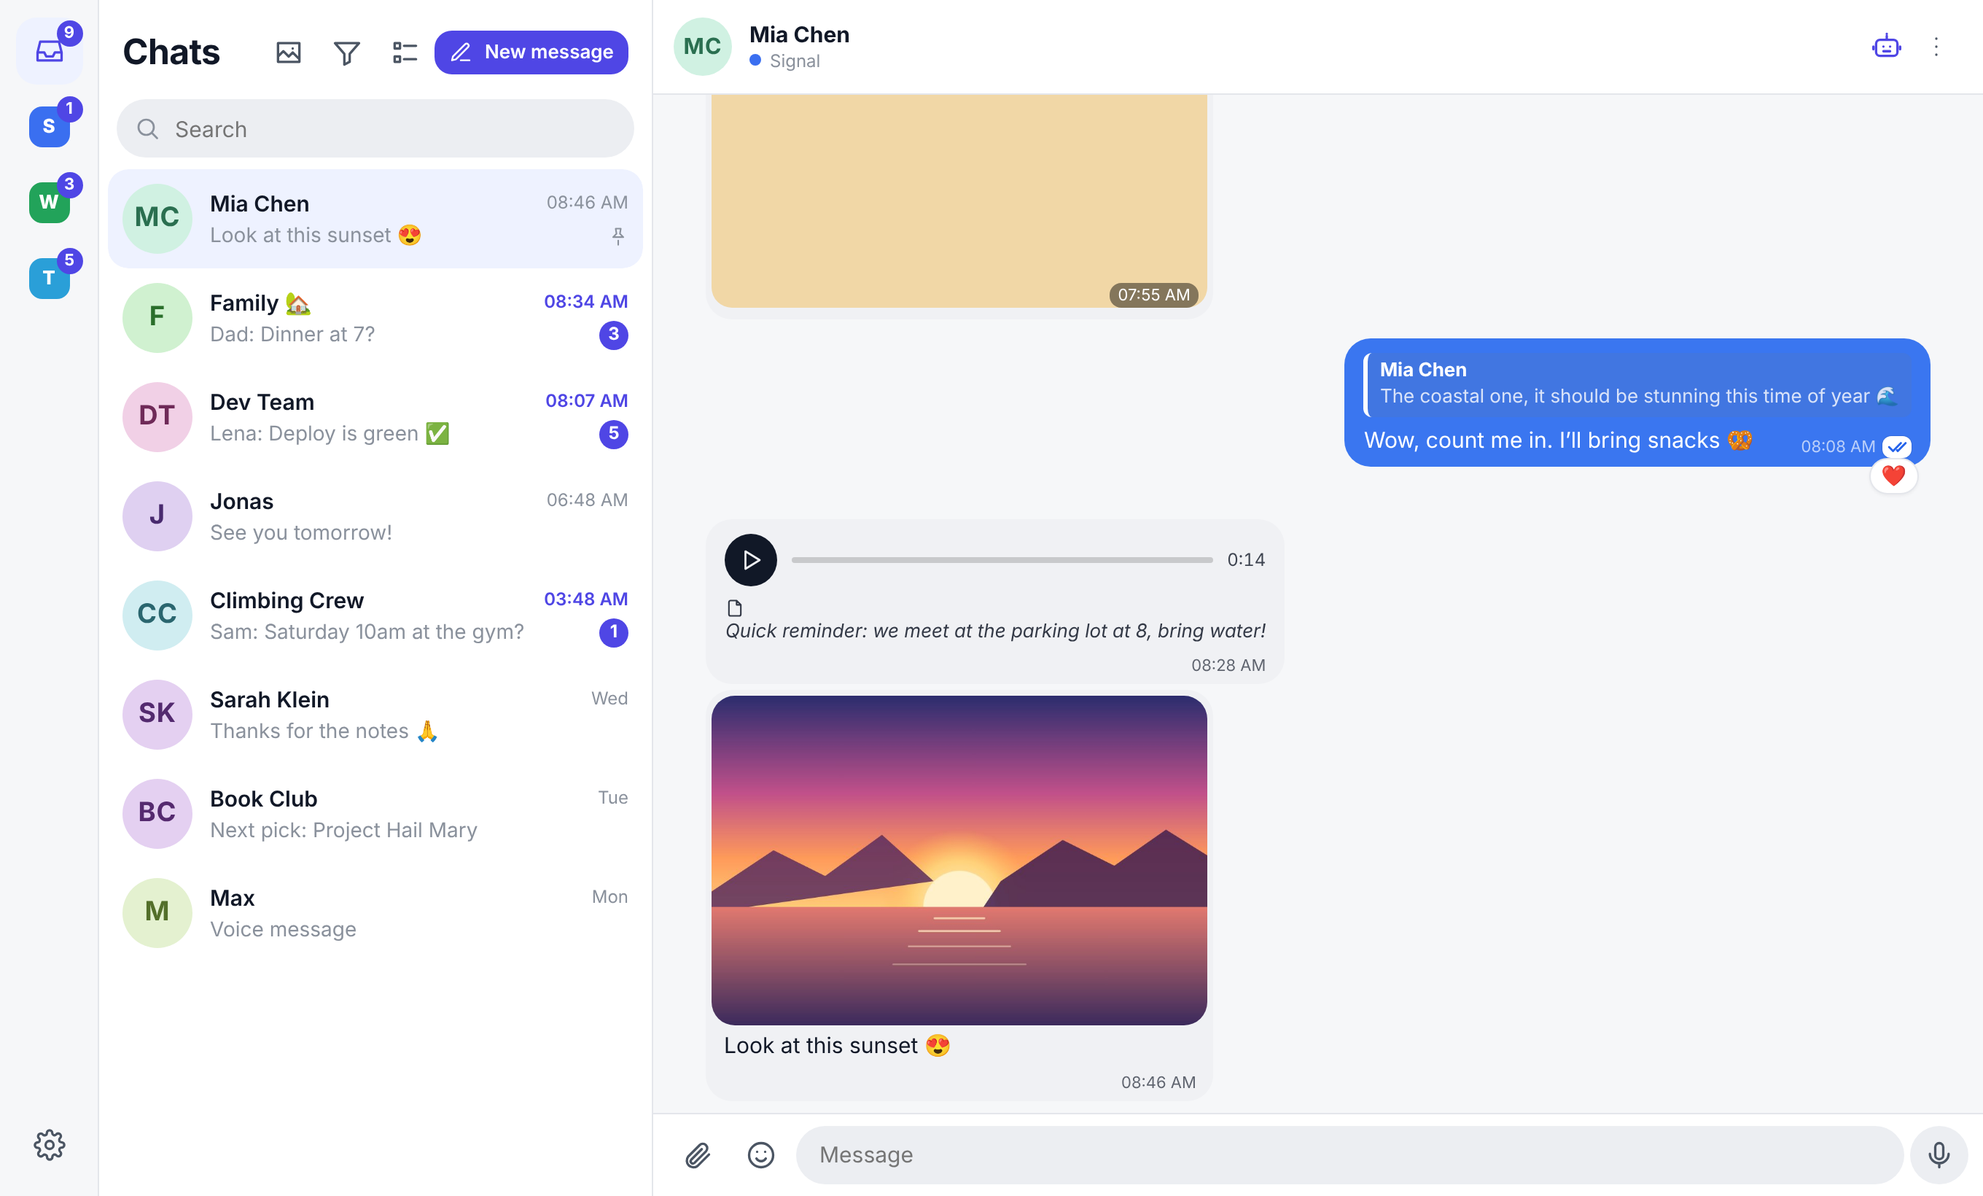
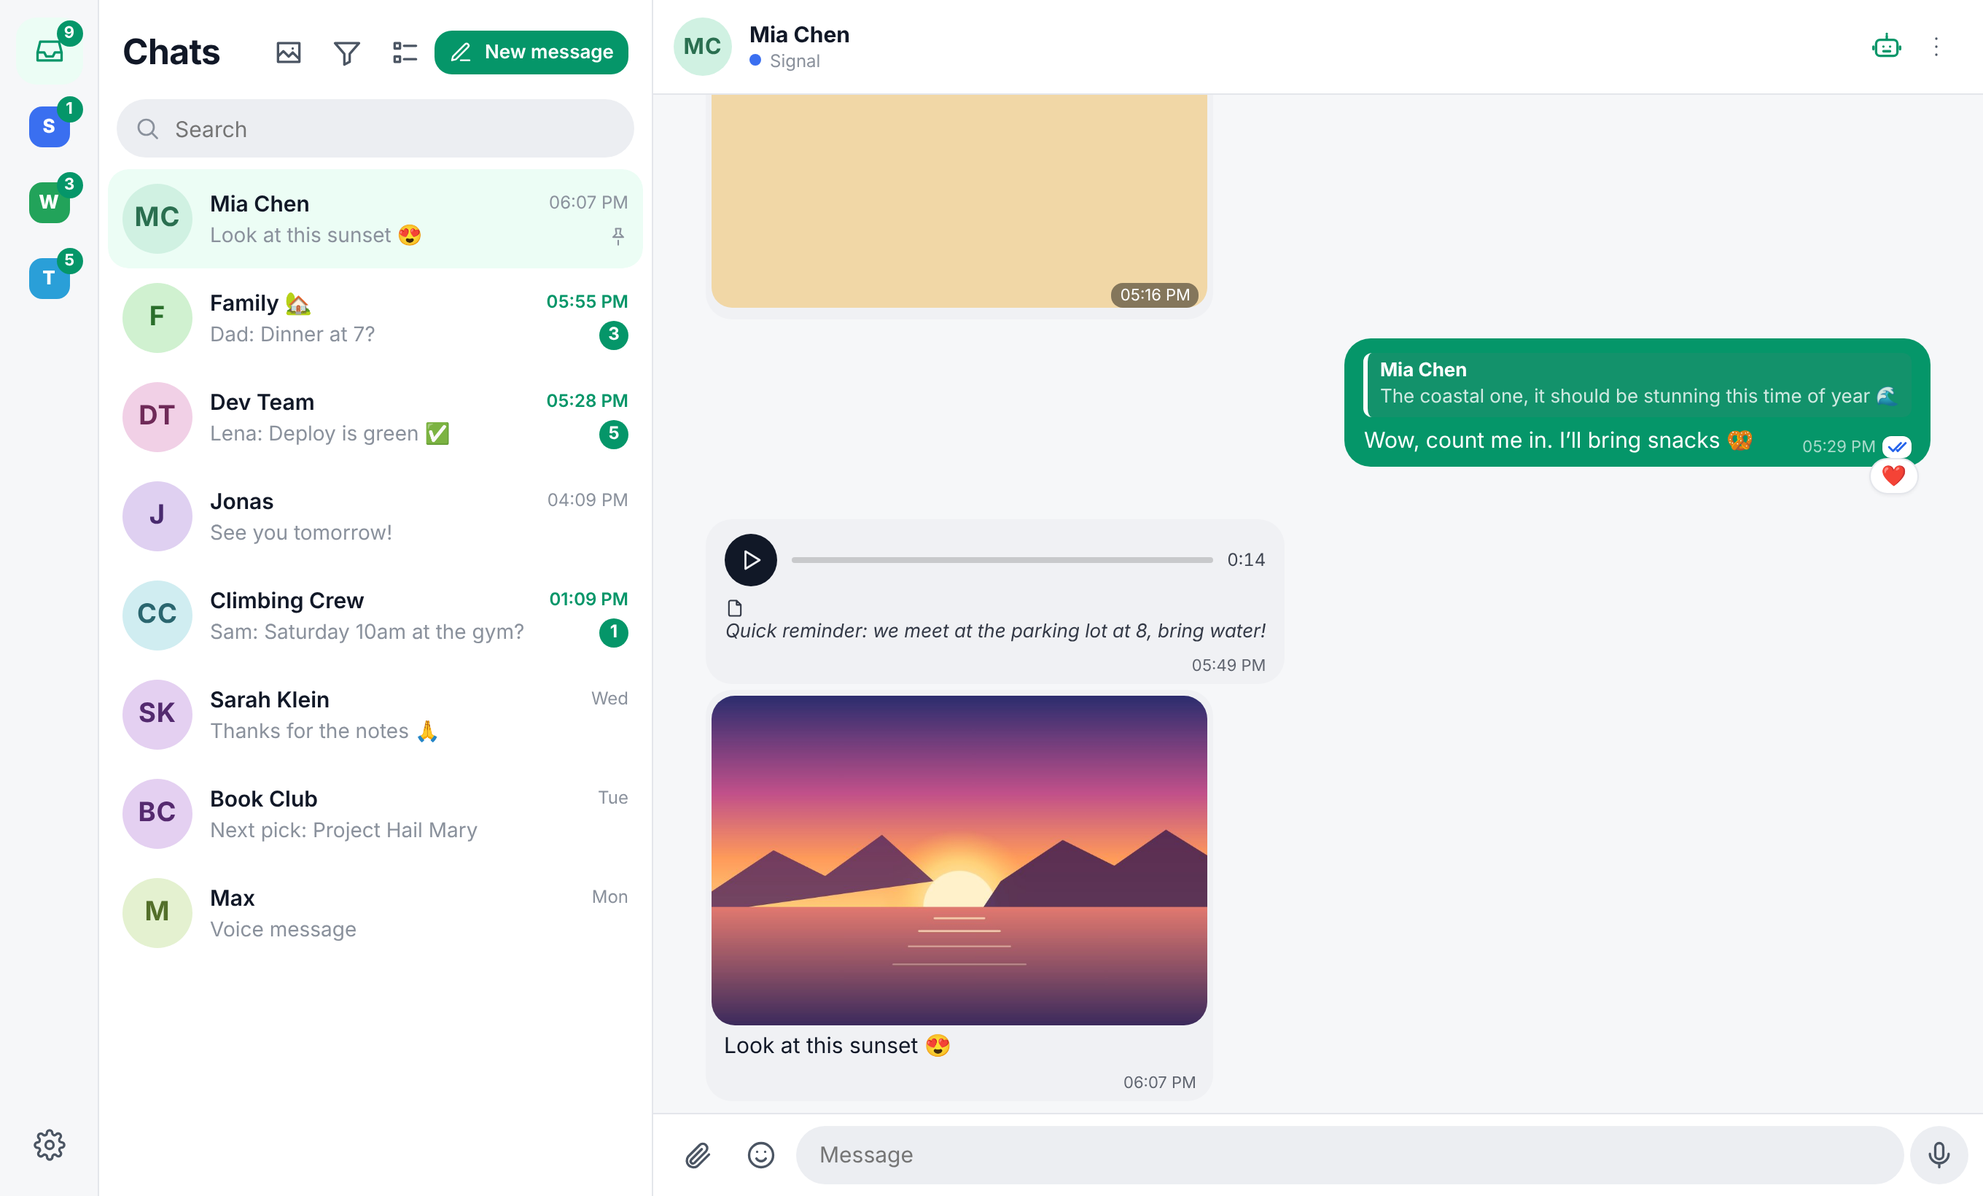
Smaragd als neue App-Farbe, alle Farben in Darstellung wählbar
Logo und App-Icons in Smaragd. Einstellungen → Darstellung → App-Farbe
(Smaragd, Petrol, Ozeanblau, Indigo, Violett, Koralle, Orange, Graphit),
gilt pro Gerät. Eigene Sprechblasen folgen standardmäßig der App-Farbe,
„Farbe je Messenger“ bleibt als Option; bestehende Einstellungen werden
einmalig auf den neuen Standard umgestellt. README-Screenshots neu.

Claude-Session: https://claude.ai/code/session_011JkhW8hJt65X9TTfH212ci

diff --git a/web/src/components/BubbleSettings.tsx b/web/src/components/BubbleSettings.tsx
@@ -3,32 +3,35 @@ import type { Network } from '../api';
 import { NETWORKS } from '../util';
 import { sendAnimEnabled, setSendAnim } from '../sendAnim';
 import {
-  BUBBLE_DEFAULTS, BUBBLE_PALETTE, CHAT_BACKGROUNDS, chatBgCss, customBgImage, ink, loadBubbles, loadChatBg, saveBubbles, saveChatBg, setCustomBg,
+  ACCENTS, BUBBLE_DEFAULTS, BUBBLE_PALETTE, bubbleHex, loadAccent, saveAccent, CHAT_BACKGROUNDS, chatBgCss, customBgImage, ink, loadBubbles, loadChatBg, saveBubbles, saveChatBg, setCustomBg,
   type BubbleSettings,
 } from '../bubbles';
 import { Icon } from './Icon';
 import { T } from '../i18n';
 
 /** Eine Farbzeile: Tippen klappt die Auswahl auf (Palette + eigene Farbe) */
-function ColorRow({ label, color, open, onToggle, onPick }: { label: string; color: string; open: boolean; onToggle: () => void; onPick: (c: string) => void }) {
-  const custom = !BUBBLE_PALETTE.includes(color);
+function ColorRow({ label, color, open, onToggle, onPick, auto }: { label: string; color: string; open: boolean; onToggle: () => void; onPick: (c: string) => void; auto?: boolean }) {
+  const isAuto = color === 'accent';
+  const custom = !isAuto && !BUBBLE_PALETTE.includes(color);
+  const hex = bubbleHex(color);
   return (
     <div className={`color-row${open ? ' open' : ''}`}>
       <button className="ios-row" onClick={onToggle} aria-expanded={open}>
         <span className="ios-row-main">
-          <span className="ios-row-text"><span className="ios-title">{label}</span></span>
-          <span className="color-dot" style={{ background: color }} />
+          <span className="ios-row-text"><span className="ios-title">{label}</span>{isAuto && <small>{T('Wie die App-Farbe')}</small>}</span>
+          <span className="color-dot" style={{ background: hex }} />
           <Icon name="chevron" size={18} />
         </span>
       </button>
       {open && (
         <div className="swatches pick">
+          {auto && <button className={`swatch auto ${isAuto ? 'on' : ''}`} style={{ background: 'var(--brand)' }} aria-label={T('Wie die App-Farbe')} title={T('Wie die App-Farbe')} onClick={() => onPick('accent')}><Icon name="sparkle" size={14} /></button>}
           {BUBBLE_PALETTE.map((c) => (
             <button key={c} className={`swatch ${color === c ? 'on' : ''}`} style={{ background: c }} aria-label={c} onClick={() => onPick(c)} />
           ))}
           <label className={`swatch custom ${custom ? 'on' : ''}`} style={custom ? { background: color } : undefined} title={T('Eigene Farbe')}>
             {!custom && <Icon name="plus" size={14} />}
-            <input type="color" value={color} onChange={(e) => onPick(e.target.value)} />
+            <input type="color" value={hex} onChange={(e) => onPick(e.target.value)} />
           </label>
         </div>
       )}
@@ -49,13 +52,26 @@ export function BubbleSection({ nets }: { nets: Network[] }) {
   const list: Network[] = nets.length ? nets : ['signal', 'whatsapp', 'telegram'];
   const pickBg = (id: string) => { setBg(id); saveChatBg(id); };
   const previewNet = list[0];
-  const outColor = b.mode === 'network' ? b.colors[previewNet] : b.single;
+  const [accent, setAccent] = useState(loadAccent);
+  const outColor = b.mode === 'network' ? b.colors[previewNet] : bubbleHex(b.single);
 
   return (<>
     <div className="look-preview" style={{ background: chatBgCss(bg) || undefined }}>
       <span className="day"><span>{T('Heute')}</span></span>
       <span className="pv in">{T('Hast du heute Abend Zeit? 🍕')}</span>
       <span className="pv out" style={{ background: outColor, color: ink(outColor) }}>{T('Klar, um acht bei dir?')}</span>
+    </div>
+
+    <p className="ios-caption">{T('App-Farbe')}</p>
+    <div className="ios-card pad">
+      <div className="accent-grid">
+        {ACCENTS.map((a) => (
+          <button key={a.id} className={`accent-tile${accent.id === a.id ? ' on' : ''}`} onClick={() => { saveAccent(a.id); setAccent(a); }} aria-pressed={accent.id === a.id}>
+            <span style={{ background: `linear-gradient(135deg, ${a.dark}, ${a.brand})` }}>{accent.id === a.id && <Icon name="check" size={16} />}</span><small>{a.name}</small>
+          </button>
+        ))}
+      </div>
+      <small className="muted">{T('Für Knöpfe, Markierungen und deine Sprechblasen. Gilt für dieses Gerät.')}</small>
     </div>
 
     <p className="ios-caption">{T('Meine Sprechblasen')}</p>
@@ -68,7 +84,7 @@ export function BubbleSection({ nets }: { nets: Network[] }) {
       </label>
       {b.mode === 'network'
         ? list.map((n) => <ColorRow key={n} label={NETWORKS[n].name} color={b.colors[n]} open={open === n} onToggle={() => setOpen(open === n ? null : n)} onPick={(c) => set({ ...b, colors: { ...b.colors, [n]: c } })} />)
-        : <ColorRow label={T('Alle Chats')} color={b.single} open={open === 'single'} onToggle={() => setOpen(open === 'single' ? null : 'single')} onPick={(c) => set({ ...b, single: c })} />}
+        : <ColorRow auto label={T('Alle Chats')} color={b.single} open={open === 'single'} onToggle={() => setOpen(open === 'single' ? null : 'single')} onPick={(c) => set({ ...b, single: c })} />}
     </div>
     <p className="ios-foot"><button className="link-btn" onClick={() => set({ ...b, colors: BUBBLE_DEFAULTS.colors, single: BUBBLE_DEFAULTS.single })}>{T('Standardfarben')}</button> {T('· Helle Farben bekommen automatisch dunkle Schrift.')}</p>
 

diff --git a/web/src/bubbles.ts b/web/src/bubbles.ts
@@ -1,21 +1,50 @@
 import type { Network } from './api';
 import { T } from './i18n';
 
-/** Farbe der eigenen Sprechblasen: je Messenger oder einheitlich */
+/** App-Farbe (Knöpfe, Markierungen, eigene Sprechblasen). Standard: Smaragd */
+export type Accent = { id: string; name: string; brand: string; soft: string; dark: string; darkSoft: string };
+export const ACCENTS: Accent[] = [
+  { id: 'emerald', name: T('Smaragd'), brand: '#059669', soft: '#ecfdf5', dark: '#34d399', darkSoft: '#0f2a22' },
+  { id: 'petrol', name: T('Petrol'), brand: '#0d9488', soft: '#f0fdfa', dark: '#2dd4bf', darkSoft: '#0f2a29' },
+  { id: 'ocean', name: T('Ozeanblau'), brand: '#2563eb', soft: '#eff6ff', dark: '#60a5fa', darkSoft: '#172340' },
+  { id: 'indigo', name: T('Indigo'), brand: '#4f46e5', soft: '#eef2ff', dark: '#818cf8', darkSoft: '#23264a' },
+  { id: 'violet', name: T('Violett'), brand: '#9333ea', soft: '#faf5ff', dark: '#c084fc', darkSoft: '#2d1a45' },
+  { id: 'coral', name: T('Koralle'), brand: '#e11d48', soft: '#fff1f2', dark: '#fb7185', darkSoft: '#3a1520' },
+  { id: 'orange', name: T('Orange'), brand: '#ea580c', soft: '#fff7ed', dark: '#fb923c', darkSoft: '#3a2012' },
+  { id: 'graphite', name: T('Graphit'), brand: '#334155', soft: '#f1f5f9', dark: '#94a3b8', darkSoft: '#1f2630' },
+];
+const ACCENT_KEY = 'inbox:accent';
+export function loadAccent(): Accent { const id = localStorage.getItem(ACCENT_KEY); return ACCENTS.find((a) => a.id === id) ?? ACCENTS[0]; }
+export function applyAccent(a = loadAccent()) {
+  const st = document.documentElement.style;
+  if (a.id === ACCENTS[0].id) { for (const k of ['--brand', '--brand-soft', '--brand-dark', '--brand-dark-soft']) st.removeProperty(k); return; }
+  st.setProperty('--brand', a.brand); st.setProperty('--brand-soft', a.soft);
+  st.setProperty('--brand-dark', a.dark); st.setProperty('--brand-dark-soft', a.darkSoft);
+}
+export function saveAccent(id: string) { localStorage.setItem(ACCENT_KEY, id); applyAccent(); }
+
+/** Farbe der eigenen Sprechblasen: App-Farbe (Standard), eigene Farbe oder je Messenger.
+ *  single = 'accent' heißt: folgt der App-Farbe. */
 export type BubbleSettings = { mode: 'network' | 'single'; colors: Record<Network, string>; single: string };
 export const BUBBLE_DEFAULTS: BubbleSettings = {
-  mode: 'network', single: '#4f46e5',
+  mode: 'single', single: 'accent',
   colors: { signal: '#3a76f0', whatsapp: '#1f9e5a', telegram: '#3390ec', email: '#ea580c', demo: '#4f46e5' },
 };
 export const BUBBLE_PALETTE = ['#3a76f0', '#3390ec', '#0891b2', '#1f9e5a', '#0f766e', '#4f46e5', '#7c3aed', '#db2777', '#e11d48', '#ea580c', '#a16207', '#374151'];
+/** Tatsächliche Farbe der Einstellung (für Vorschau) */
+export function bubbleHex(c: string) { return c === 'accent' ? loadAccent().brand : c; }
 
 export function loadBubbles(): BubbleSettings {
   try {
     const j = JSON.parse(localStorage.getItem('inbox:bubbles') ?? '');
-    return { mode: j.mode === 'single' ? 'single' : 'network', colors: { ...BUBBLE_DEFAULTS.colors, ...(j.colors ?? {}) }, single: /^#[0-9a-f]{6}$/i.test(j.single) ? j.single : BUBBLE_DEFAULTS.single };
+    // Bis v2 war „je Messenger“ Standard und Indigo die Einheitsfarbe: einmalig auf den neuen Standard (App-Farbe) umstellen,
+    // eigene Farben je Messenger bleiben gespeichert.
+    const old = j.v !== 2;
+    const single = !old && /^#[0-9a-f]{6}$/i.test(j.single) ? j.single : old && /^#[0-9a-f]{6}$/i.test(j.single) && j.single.toLowerCase() !== '#4f46e5' ? j.single : 'accent';
+    return { mode: !old && j.mode === 'network' ? 'network' : 'single', colors: { ...BUBBLE_DEFAULTS.colors, ...(j.colors ?? {}) }, single };
   } catch { return BUBBLE_DEFAULTS; }
 }
-export function saveBubbles(b: BubbleSettings) { localStorage.setItem('inbox:bubbles', JSON.stringify(b)); applyBubbles(b); }
+export function saveBubbles(b: BubbleSettings) { localStorage.setItem('inbox:bubbles', JSON.stringify({ ...b, v: 2 })); applyBubbles(b); }
 
 /** Helle Farben bekommen dunkle Schrift */
 export function ink(hex: string) {
@@ -27,7 +56,7 @@ export function ink(hex: string) {
 export function applyBubbles(b = loadBubbles()) {
   const root = document.documentElement;
   root.classList.toggle('bubbles-net', b.mode === 'network');
-  if (b.single !== BUBBLE_DEFAULTS.single) { root.style.setProperty('--bubble-out', b.single); root.style.setProperty('--bubble-out-ink', ink(b.single)); }
+  if (b.single !== 'accent') { root.style.setProperty('--bubble-out', b.single); root.style.setProperty('--bubble-out-ink', ink(b.single)); }
   else { root.style.removeProperty('--bubble-out'); root.style.removeProperty('--bubble-out-ink'); }
   for (const [n, c] of Object.entries(b.colors)) {
     root.style.setProperty(`--bubble-${n}`, c);

diff --git a/web/src/styles.css b/web/src/styles.css
@@ -1,7 +1,12 @@
 /* Chorus – eigenes Design. Hell/Dunkel automatisch. */
 :root {
-  --accent: #4f46e5;
-  --accent-soft: #eef2ff;
+  /* App-Farbe: --brand* setzt applyAccent() je nach Wahl (Einstellungen → Darstellung) */
+  --brand: #059669;
+  --brand-soft: #ecfdf5;
+  --brand-dark: #34d399;
+  --brand-dark-soft: #0f2a22;
+  --accent: var(--brand);
+  --accent-soft: var(--brand-soft);
   --accent-ink: #ffffff;
   --bg: #ffffff;
   --bg-2: #f6f7f9;
@@ -11,7 +16,7 @@
   --ink-2: #4b5563;
   --ink-3: #8a919c;
   --bubble-in: #f0f1f4;
-  --bubble-out: #4f46e5;
+  --bubble-out: var(--brand);
   --bubble-out-ink: #ffffff;
   --danger: #dc2626;
   --warn-bg: #fff7e6;
@@ -30,10 +35,10 @@
 }
 @media (prefers-color-scheme: dark) {
   :root {
-    --accent: #818cf8; --accent-soft: #23264a; --accent-ink: #0b0d17;
+    --accent: var(--brand-dark); --accent-soft: var(--brand-dark-soft); --accent-ink: #0b0d17;
     --bg: #0f1115; --bg-2: #161920; --bg-3: #1f232c; --line: #262a33;
     --ink: #eef0f4; --ink-2: #b2b8c3; --ink-3: #7c8491;
-    --bubble-in: #1f232c; --bubble-out: #4f46e5; --bubble-out-ink: #fff;
+    --bubble-in: #1f232c; --bubble-out: var(--brand); --bubble-out-ink: #fff;
     --warn-bg: #2b2112; --warn-ink: #fbbf24;
     --shadow: 0 10px 40px rgba(0, 0, 0, .5);
   }
@@ -898,7 +903,7 @@ html.bubbles-net .chat-view[data-net="demo"] { --bubble-out: var(--bubble-demo);
 .via-setting h4 { margin: 0 0 4px; }
 .radio-row { display: flex; align-items: center; gap: 8px; padding: 8px 0; border-bottom: 1px solid var(--line, #eee); cursor: pointer; }
 .radio-row:last-child { border-bottom: 0; }
-.radio-row input { accent-color: var(--accent, #4f46e5); width: 18px; height: 18px; margin: 0; }
+.radio-row input { accent-color: var(--accent, #059669); width: 18px; height: 18px; margin: 0; }
 .radio-row .dot { flex: none; }
 .auto-set { display: grid; gap: 6px; margin: 10px 0; }
 .auto-label { font-size: 12px; font-weight: 600; color: var(--ink-3); text-transform: uppercase; letter-spacing: .03em; margin-top: 4px; }
@@ -1067,3 +1072,9 @@ input.switch:checked::after { left: 2px; transform: translateX(20px); }
 .bg-tile > span { width: 100%; aspect-ratio: 4 / 5; border-radius: 10px; display: grid; place-items: center; color: var(--ink-3); box-shadow: inset 0 0 0 1px var(--ios-sep); background-size: cover; }
 .bg-tile.on > span { box-shadow: 0 0 0 2px var(--ios-card, var(--bg)), 0 0 0 4px var(--accent); }
 .bg-tile.on small { color: var(--accent); font-weight: 600; }
+.accent-grid { display: grid; grid-template-columns: repeat(4, 1fr); gap: 12px 8px; }
+.accent-tile { display: grid; gap: 5px; justify-items: center; font-size: 12px; color: var(--ink-2); }
+.accent-tile > span { width: 44px; height: 44px; border-radius: 13px; display: grid; place-items: center; color: #fff; box-shadow: inset 0 0 0 1px rgba(0,0,0,.08); transition: transform .15s var(--ease-out); }
+.accent-tile.on > span { box-shadow: 0 0 0 2px var(--ios-card, var(--bg)), 0 0 0 4px var(--accent); transform: scale(1.05); }
+.accent-tile.on small { color: var(--accent); font-weight: 600; }
+.swatch.auto { display: grid; place-items: center; color: #fff; }

diff --git a/web/src/components/Settings.tsx b/web/src/components/Settings.tsx
@@ -16,7 +16,7 @@ import { BubbleSection } from './BubbleSettings';
 import { AdminSection } from './AdminSection';
 import { PushSection } from './PushSection';
 import { Avatar } from './Rail';
-import { loadBubbles } from '../bubbles';
+import { loadAccent } from '../bubbles';
 import { useExit } from '../useExit';
 import { T, LANGS, lang, langChoice, locale, setLangChoice } from '../i18n';
 
@@ -108,7 +108,7 @@ export function Settings({ server, accounts, onClose, onAdd, onLocked, onProfile
   const logout = async () => { await keyStore.clear(pid); await api.logout(); onLocked(); };
 
   const pushOn = localStorage.getItem('inbox:push') === '1';
-  const bubbleMode = loadBubbles().mode === 'network' ? T('Farben je Dienst') : T('Einheitlich');
+  const bubbleMode = loadAccent().name;
   const acc = shown?.startsWith('acc:') ? accounts.find((a) => a.id === shown.slice(4)) : undefined;
   const title = acc ? acc.label : shown ? TITLES[shown] : '';
 
@@ -138,7 +138,7 @@ export function Settings({ server, accounts, onClose, onAdd, onLocked, onProfile
       case 'server': return <div className="ios-card pad"><AdminSection /></div>;
       case 'about': return (
         <>
-          <div className="ios-hero"><img src="/icon.svg" alt="" width={72} height={72} style={{ borderRadius: 16 }} /><h3>{T('Chorus')}</h3><small className="muted">{T('Version')}{' '}{server.version}</small></div>
+          <div className="ios-hero"><img src="/icon.svg?v=3" alt="" width={72} height={72} style={{ borderRadius: 16 }} /><h3>{T('Chorus')}</h3><small className="muted">{T('Version')}{' '}{server.version}</small></div>
           <div className="ios-card pad"><p className="muted">{T('Deine Messenger in einer App. Deine Daten liegen verschlüsselt auf deinem eigenen Server.')}</p></div>
           <div className="ios-card">
             <a className="ios-row" href="https://github.com/robinvonmises/chorus" target="_blank" rel="noreferrer"><span className="ios-row-main"><span className="ios-row-text"><span className="ios-title">{T('Quellcode auf GitHub')}</span></span><Icon name="chevron" size={18} /></span></a>

diff --git a/web/src/App.tsx b/web/src/App.tsx
@@ -89,7 +89,7 @@ export default function App() {
     return () => document.removeEventListener('visibilitychange', onVis);
   }, [server?.authed]);
 
-  if (!ready && !server) return <div className="splash"><img src="/icon.svg" width={64} alt="" /></div>;
+  if (!ready && !server) return <div className="splash"><img src="/icon.svg?v=3" width={64} alt="" /></div>;
   if (error && !server) return <div className="splash"><p>{error}</p></div>;
   if (!server!.authed) return <Lock state={server!} savedKey={savedKey} onDone={boot} />;
   return <Main server={server!} onLocked={boot} onRefresh={() => api.state().then(setServer).catch(() => {})} />;
@@ -371,7 +371,7 @@ function Main({ server, onLocked, onRefresh }: { server: ServerState; onLocked: 
             onChat={(c) => setChats((cs) => new Map(cs).set(c.id, c))} />
         ) : (
           <div className="empty-chat">
-            <img src="/icon.svg" width={72} alt="" />
+            <img src="/icon.svg?v=3" width={72} alt="" />
             <h2>{T('Chorus')}</h2>
             <p>{T('Wähle links einen Chat aus.')}</p>
             {!accounts.length && <button className="btn primary" onClick={() => setPanel('add')}>{T('Messenger verbinden')}</button>}

diff --git a/web/index.html b/web/index.html
@@ -9,10 +9,10 @@
       if (window.matchMedia && matchMedia('(prefers-color-scheme: dark)').matches) document.querySelector('meta[name=theme-color]').setAttribute('content', '#0f1115');
     </script>
     <meta name="apple-mobile-web-app-capable" content="yes" />
-    <link rel="manifest" href="/manifest.webmanifest?v=2" />
-    <link rel="icon" href="/icon.svg?v=2" type="image/svg+xml" />
-    <link rel="icon" href="/favicon-32.png?v=2" sizes="32x32" type="image/png" />
-    <link rel="apple-touch-icon" href="/apple-touch-icon.png?v=2" sizes="180x180" />
+    <link rel="manifest" href="/manifest.webmanifest?v=3" />
+    <link rel="icon" href="/icon.svg?v=3" type="image/svg+xml" />
+    <link rel="icon" href="/favicon-32.png?v=3" sizes="32x32" type="image/png" />
+    <link rel="apple-touch-icon" href="/apple-touch-icon.png?v=3" sizes="180x180" />
     <script>
       // Kann ein Skript nicht geladen werden (z. B. alte Version nach einem Update), einmal frisch neu laden statt leer zu bleiben
       (function () {

diff --git a/web/public/sw.js b/web/public/sw.js
@@ -42,7 +42,7 @@ self.addEventListener('push', (e) => {
     const img = d.image && !ios ? loadImage(d.image) : Promise.resolve(undefined);
     return img.then((image) => self.registration.showNotification(d.title || 'Chorus', {
       body: d.body || '', tag: d.tag || d.chatId || undefined, renotify: true, image,
-      data: { chatId: d.chatId || null }, icon: '/icon-192.png?v=2', badge: '/icon-192.png?v=2',
+      data: { chatId: d.chatId || null }, icon: '/icon-192.png?v=3', badge: '/icon-192.png?v=3',
     }));
   }));
 });

diff --git a/web/src/main.tsx b/web/src/main.tsx
@@ -2,8 +2,9 @@ import { Component, StrictMode, type ReactNode } from 'react';
 import { createRoot } from 'react-dom/client';
 import App from './App';
 import './styles.css';
-import { applyBubbles, applyChatBg } from './bubbles';
+import { applyAccent, applyBubbles, applyChatBg } from './bubbles';
 import { T } from './i18n';
+applyAccent();
 applyBubbles();
 applyChatBg();
 

diff --git a/web/src/components/Lock.tsx b/web/src/components/Lock.tsx
@@ -175,5 +175,5 @@ export function Lock({ state, savedKey, onDone }: { state: ServerState; savedKey
 }
 
 export function Logo() {
-  return <img src="/icon.svg" alt="" className="logo" width={56} height={56} />;
+  return <img src="/icon.svg?v=3" alt="" className="logo" width={56} height={56} />;
 }
